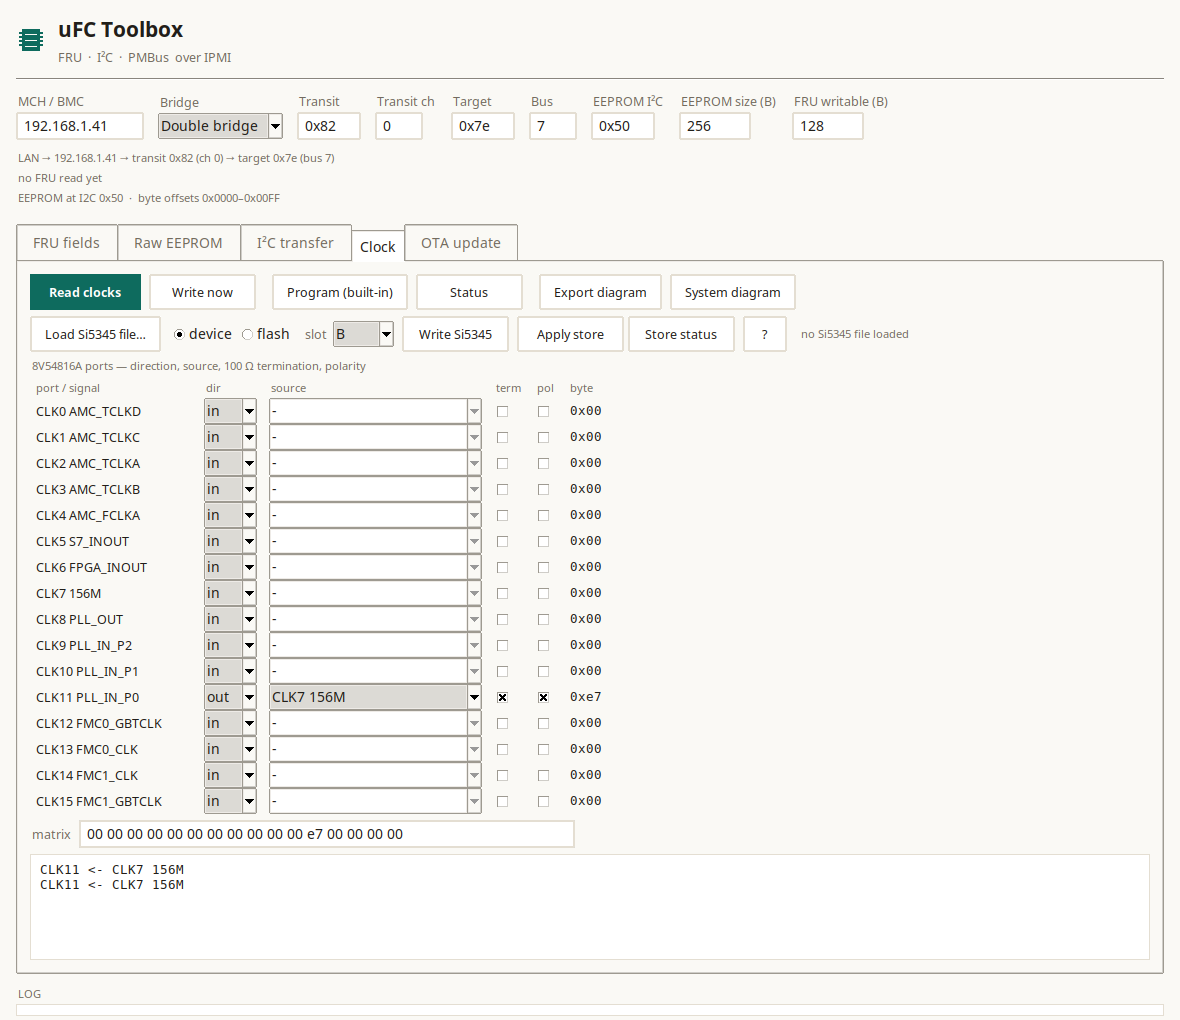
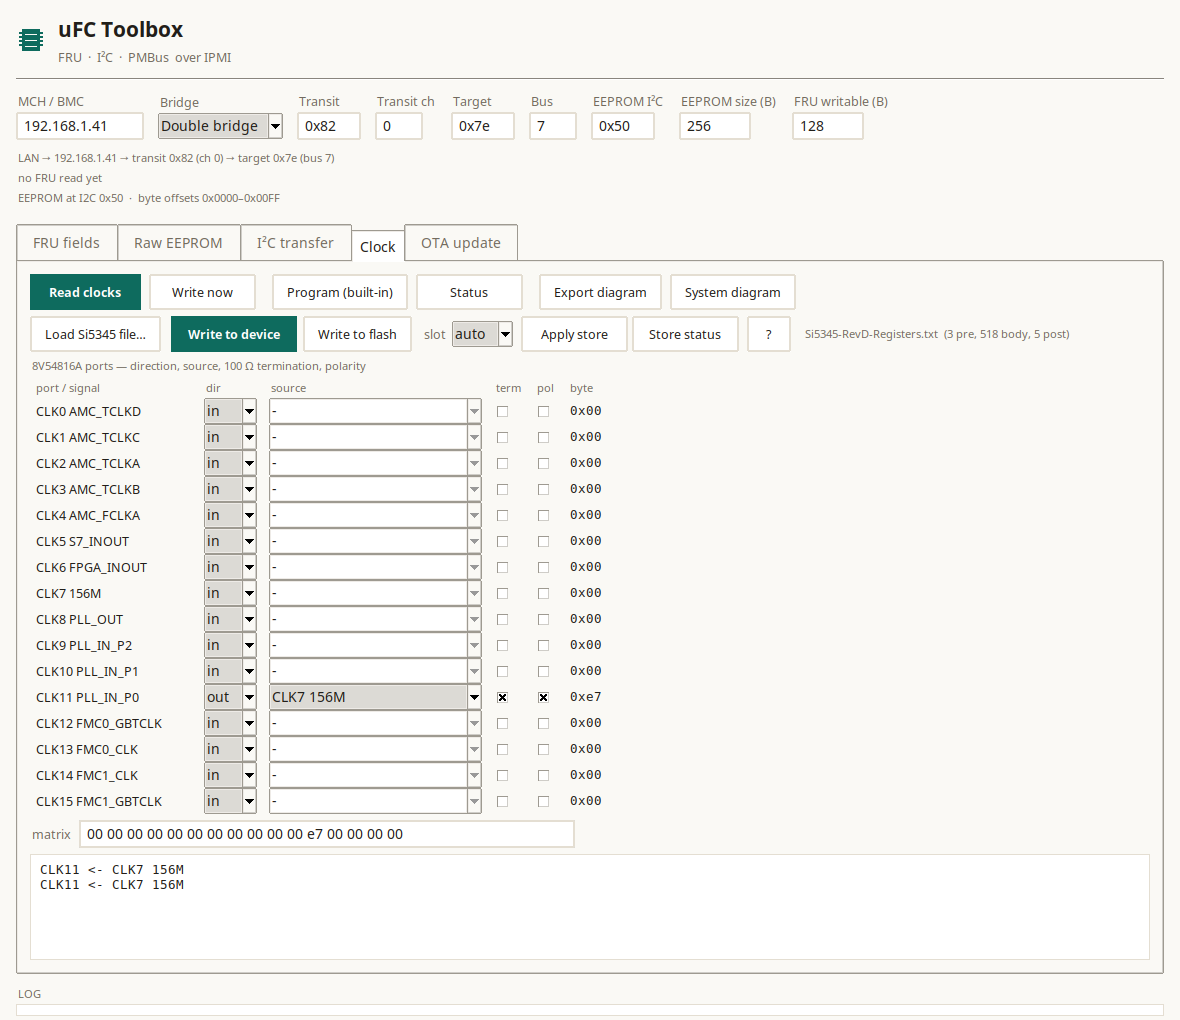
toolbox: separate 'Write to device' from 'Write to flash'
The single Write Si5345 button with a device/flash radio is split into
two clearly labelled actions:
- Write to device (primary): programs the Si5345 RAM from the PC over
  I2C - immediate, volatile;
- Write to flash: builds the FRU slot (matrix + table) and uploads it to
  the MMC clock store - persistent, applied at the next power-on.
The slot selector (auto/A/B) stays next to the flash button; both buttons
have hover tooltips explaining the difference. Help text, README and
screenshot updated; binary rebuilt.

Changed region(s): [[0.122, 0.3039, 0.9153, 0.3647]]

diff --git a/tools/uFC_toolbox/fru_gui_tk.py b/tools/uFC_toolbox/fru_gui_tk.py
@@ -78,8 +78,10 @@ Buttons:
   Program (built-in)        program the Si5345 from the firmware table (0x16)
   Status                    Si5345 programming status (0x17)
   Load Si5345 file...       parse a ClockBuilder register script (pre/body/post)
-  Write Si5345  device      write the loaded table from the PC over I2C
-                flash       upload matrix + table to the MMC clock store
+  Write to device           write the loaded table to the Si5345 now (I2C);
+                            volatile, lost on power-cycle
+  Write to flash            store matrix + table in the MMC clock store;
+                            applied at the next power-on (slot auto/A/B)
   Apply store               re-apply the stored configuration (0x19)
   Store status              active slot / length / CRC (0x18)
 
@@ -396,16 +398,21 @@ class FruEditor(tk.Tk):
         row2 = ttk.Frame(parent)
         row2.pack(fill="x", pady=(0, 4))
         ttk.Button(row2, text="Load Si5345 file…", command=self.si_load).pack(side="left")
-        self.si_target = tk.StringVar(value="device")
-        ttk.Radiobutton(row2, text="device", variable=self.si_target,
-                        value="device").pack(side="left", padx=(10, 0))
-        ttk.Radiobutton(row2, text="flash", variable=self.si_target,
-                        value="flash").pack(side="left", padx=(4, 0))
+        dev = ttk.Button(row2, text="Write to device", style="Primary.TButton",
+                         command=self.si_write_device)
+        dev.pack(side="left", padx=(10, 0))
+        Tooltip(dev, "Write the loaded table to the Si5345 RAM over I2C.\n"
+                     "Effective immediately, lost on power-cycle.")
+        fl = ttk.Button(row2, text="Write to flash", command=self.si_write_flash)
+        fl.pack(side="left", padx=(6, 0))
+        Tooltip(fl, "Store matrix + Si5345 table in the MMC clock store.\n"
+                    "Applied automatically at the next power-on.")
         ttk.Label(row2, text="slot", style="FieldLabel.TLabel").pack(side="left", padx=(10, 4))
         self.slot_sel = tk.StringVar(value="auto")
-        ttk.Combobox(row2, textvariable=self.slot_sel, values=("auto", "A", "B"),
-                     width=5, state="readonly").pack(side="left")
-        ttk.Button(row2, text="Write Si5345", command=self.si_write).pack(side="left", padx=(8, 0))
+        slotsel = ttk.Combobox(row2, textvariable=self.slot_sel, values=("auto", "A", "B"),
+                               width=5, state="readonly")
+        slotsel.pack(side="left")
+        Tooltip(slotsel, "Flash target: auto = inactive slot (atomic), A or B explicit")
         ttk.Button(row2, text="Apply store", command=self.store_apply).pack(side="left", padx=(8, 0))
         ttk.Button(row2, text="Store status", command=self.store_status).pack(side="left", padx=(4, 0))
         ttk.Button(row2, text="?", width=2, command=self.clock_help).pack(side="left", padx=(8, 0))
@@ -979,36 +986,37 @@ class FruEditor(tk.Tk):
         except Exception as e:
             self._clock_log("ERROR: %s" % e)
 
-    def si_write(self):
+    def si_write_device(self):
+        """Write the loaded Si5345 table to the device RAM (immediate, volatile)."""
         if not self.si_groups:
             self._clock_log("ERROR: load a Si5345 register file first")
             return
-        if self.si_target.get() == "flash":
-            try:
-                slot = build_clock_slot(self.clock_matrix, self.si_groups)
-                self._clock_log("clock slot: %d bytes, crc %08x" %
-                                (len(slot), zlib.crc32(slot) & 0xFFFFFFFF))
-                slot_index = {"auto": 0xFF, "A": 0, "B": 1}.get(self.slot_sel.get(), 0xFF)
-                r = upload_clock_slot(self._access(), slot, slot_index,
-                                      progress=lambda n: self._clock_log("flash: %d bytes" % n))
-                self._clock_log("slot uploaded, finish: %s" % r.hex())
-                self._status("Clock config written to flash", "ok")
-            except Exception as e:
-                self._status("Flash write failed", "error")
-                self._clock_log("ERROR: %s" % e)
-            return
         try:
-            total = 0
             def progress(n):
-                total = n
                 if n % 64 == 0:
                     self._clock_log("Si5345: %d registers written" % n)
                     self.update_idletasks()
             n = program_si5345(self._access(), self.si_groups, progress=progress)
-            self._clock_log("Si5345 programmed: %d registers (preamble 300 ms, body, postamble)" % n)
-            self._status("Si5345 programmed", "ok")
+            self._clock_log("Si5345 programmed to the device: %d registers "
+                            "(preamble, 300 ms, body, postamble) — lost on power-cycle" % n)
+            self._status("Si5345 programmed (device)", "ok")
         except Exception as e:
             self._status("Si5345 write failed", "error")
+            self._clock_log("ERROR: %s" % e)
+
+    def si_write_flash(self):
+        """Store the current matrix + loaded Si5345 table in the MMC clock store."""
+        try:
+            slot = build_clock_slot(self.clock_matrix, self.si_groups)
+            self._clock_log("clock slot: %d bytes, crc %08x" %
+                            (len(slot), zlib.crc32(slot) & 0xFFFFFFFF))
+            slot_index = {"auto": 0xFF, "A": 0, "B": 1}.get(self.slot_sel.get(), 0xFF)
+            r = upload_clock_slot(self._access(), slot, slot_index,
+                                  progress=lambda n: self._clock_log("flash: %d bytes" % n))
+            self._clock_log("slot uploaded, finish: %s — applied at the next power-on" % r.hex())
+            self._status("Clock config written to flash", "ok")
+        except Exception as e:
+            self._status("Flash write failed", "error")
             self._clock_log("ERROR: %s" % e)
 
     def clock_help(self):

diff --git a/tools/uFC_toolbox/README.md b/tools/uFC_toolbox/README.md
@@ -149,10 +149,12 @@ always shows the 16 bytes that are written to the device.
 - **Program (built-in)** — firmware command `0x16`, writes the compiled table
 - **Load Si5345 file…** — load a ClockBuilder register script
   (e.g. `Si5345-RevD-Registers.txt`); the counts (pre/body/post) are shown
-- **Write Si5345** — writes the loaded table either
-  - **device**: from the PC over I²C (page‑aware, 300 ms pause), or
-  - **flash**: builds the FRU slot (matrix + Si5345 table) and uploads it to
-    the MMC clock store (`0x1A/0x1B/0x1C`), which the MMC applies at power‑on
+- **Write to device** — writes the loaded table from the PC to the Si5345
+  RAM over I²C (page‑aware, 300 ms pause). Effective immediately, **lost on
+  power‑cycle**
+- **Write to flash** — builds the FRU slot (current matrix + loaded table)
+  and uploads it to the MMC clock store (`0x1A/0x1B/0x1C`); the MMC applies
+  it **at the next power‑on** (target slot `auto`/`A`/`B`)
 - **slot** selector — `auto` (write the inactive slot, atomic), `A` or `B`
   (explicit target; the pointer is updated after a successful finish)
 - **Apply store** / **Store status** — `0x19` / `0x18` (status shows the
